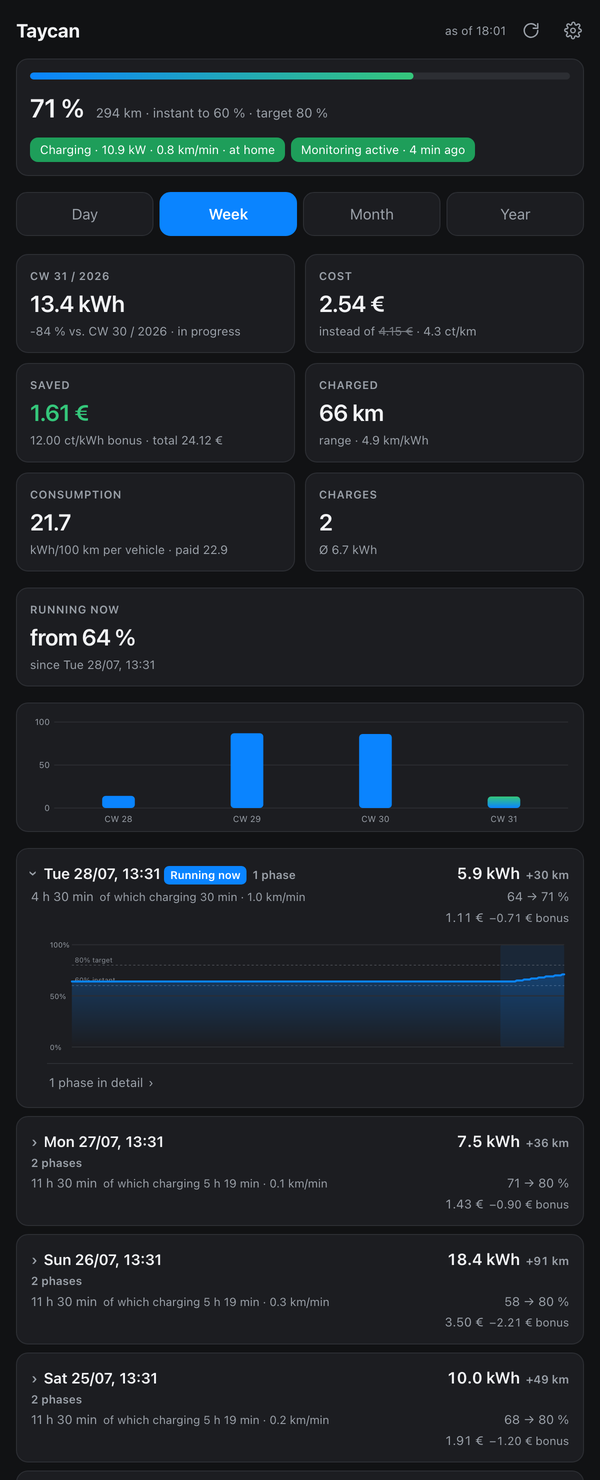
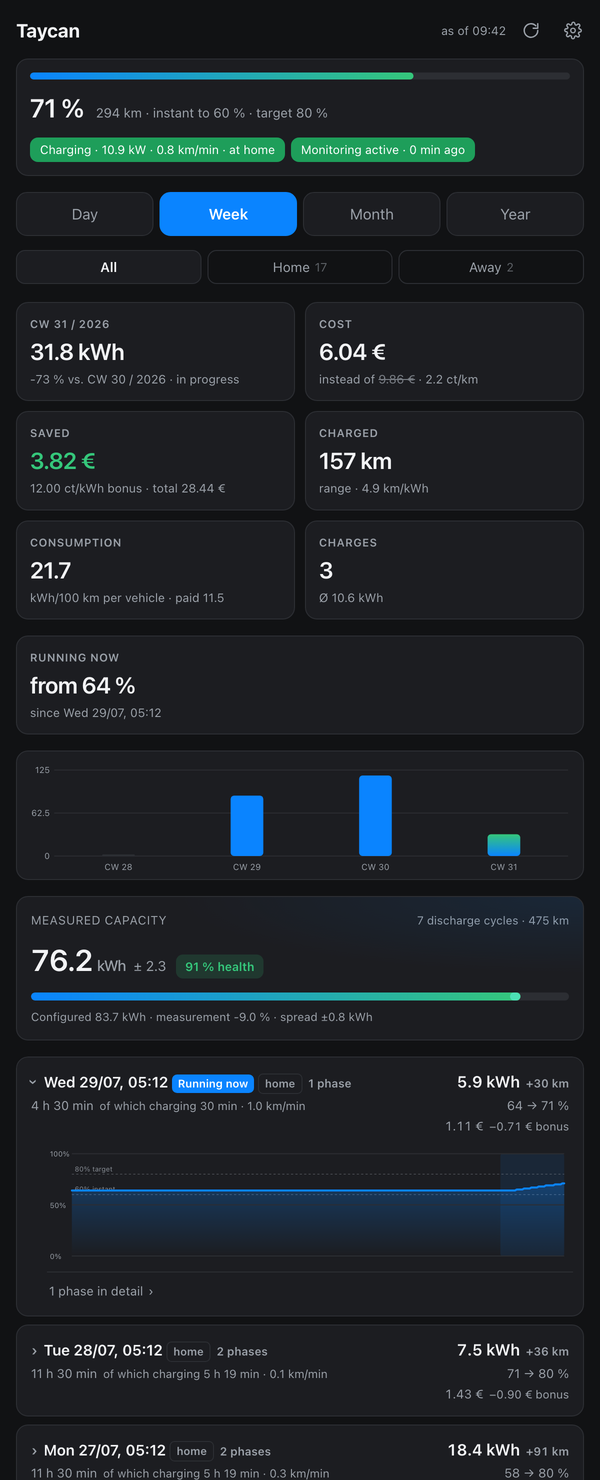
fix: capacity above the filters, real charging time instead of coverage
Two fixes from the private tree.

The measured-capacity tile sat below the period and location filters but
changes with neither — it always computes over every drive, because the battery
does not depend on where or when you charged. Read below the filters it looked
filtered. It is above them now.

The tile labelled "charging time" showed `spanMinutes` — the recorded
measurement span, i.e. how long data exists at all. That has nothing to do with
charging. It now sums the actual charging time of the charges in the period,
with their count.

That tile only appears when no price is configured, so in practice it shows up
under the "away" filter, where the home tariff deliberately does not apply.

Also: test ports moved from 8200–8500 to 18200+. The old range collided with
servers running alongside during development, and a test would hit its timeout
with nothing actually wrong.

diff --git a/src/dashboard.ts b/src/dashboard.ts
@@ -990,6 +990,43 @@ ${CHART_CSS}${BARS_CSS}
     }</span>
   </div>
 </div>
+<!-- Über den Filtern: Die gemessene Kapazität ändert sich weder mit dem
+     Zeitraum noch mit dem Ort. Darunter gelesen wirkte sie gefiltert. -->
+${
+  cap.capacityKwh !== undefined
+    ? `<div class="cap">
+        <div class="caphead">
+          <span>${esc(L.dashMeasuredCapacity)}</span>
+          <em>${cap.samples} ${esc(cap.samples === 1 ? L.capCycle : L.capCycles)} · ${cap.km} km</em>
+        </div>
+        <div class="capmain">
+          <b>${cap.capacityKwh.toFixed(1)}<i>kWh</i></b>
+          ${
+            cap.uncertaintyKwh !== undefined
+              ? `<i class="capunc">± ${cap.uncertaintyKwh.toFixed(1)}</i>`
+              : ''
+          }
+          ${soh !== undefined ? `<span class="soh">${soh.toFixed(0)} % ${esc(L.dashHealth)}</span>` : ''}
+        </div>
+        <div class="capbar">
+          <i style="width:${Math.max(0, Math.min(100, soh ?? 0))}%"></i>
+          ${
+            cap.spreadKwh !== undefined
+              ? `<u style="left:${Math.max(0, Math.min(96, (soh ?? 0) - 2))}%;width:${Math.min(
+                  20,
+                  (cap.spreadKwh / cfg.capacityKwh) * 100,
+                )}%"></u>`
+              : ''
+          }
+        </div>
+        <div class="capfoot">${esc(L.dashConfigured)} ${cfg.capacityKwh} kWh${
+          capDelta !== undefined
+            ? ` · ${esc(L.dashMeasurement)} ${capDelta > 0 ? '+' : ''}${capDelta.toFixed(1)} %`
+            : ''
+        }${cap.spreadKwh !== undefined ? ` · ${esc(L.dashSpread)} ±${(cap.spreadKwh / 2).toFixed(1)} kWh` : ''}</div>
+      </div>`
+    : ''
+}
 <nav class="tabs">${tabs}</nav>
 ${placeTabs}${
   place === 'away' && !awayPriced
@@ -1009,9 +1046,15 @@ ${placeTabs}${
         ? `${esc(L.dashInsteadOf)} <s>${current.costGross.toFixed(2)} €</s>`
         : `${(o.pricePerKwh * 100).toFixed(2)} ct/kWh`
     }${eff.centPerKm !== undefined ? ` · ${eff.centPerKm.toFixed(1)} ct/km` : ''}</span></div>`
-      : `<div class="card"><span>${esc(L.dashChargeTime)}</span><b>${
-          current ? Math.round(current.spanMinutes / 60) : 0
-        } h</b><span>${esc(L.dashRecorded)}</span></div>`
+      : // Ohne Preis steht hier die tatsächliche LADEZEIT der Ladungen im
+        // Zeitraum. Vorher zeigte diese Kachel `spanMinutes` — die erfasste
+        // Messspanne, also wie lange überhaupt Daten vorliegen. Unter der
+        // Überschrift „Ladezeit" war das schlicht falsch.
+        `<div class="card"><span>${esc(L.dashChargeTime)}</span><b>${esc(
+          fmtDur(inPeriod.reduce((a, x) => a + x.chargingMin, 0)),
+        )}</b><span>${inPeriod.length} ${esc(
+          inPeriod.length === 1 ? L.dashChargeOne : L.dashCharges.toLowerCase(),
+        )}</span></div>`
   }
   ${
     hasBonus
@@ -1054,41 +1097,6 @@ ${
     : ''
 }
 ${series.length ? `<div class="chart">${bars}</div>` : ''}
-${
-  cap.capacityKwh !== undefined
-    ? `<div class="cap">
-        <div class="caphead">
-          <span>${esc(L.dashMeasuredCapacity)}</span>
-          <em>${cap.samples} ${esc(cap.samples === 1 ? L.capCycle : L.capCycles)} · ${cap.km} km</em>
-        </div>
-        <div class="capmain">
-          <b>${cap.capacityKwh.toFixed(1)}<i>kWh</i></b>
-          ${
-            cap.uncertaintyKwh !== undefined
-              ? `<i class="capunc">± ${cap.uncertaintyKwh.toFixed(1)}</i>`
-              : ''
-          }
-          ${soh !== undefined ? `<span class="soh">${soh.toFixed(0)} % ${esc(L.dashHealth)}</span>` : ''}
-        </div>
-        <div class="capbar">
-          <i style="width:${Math.max(0, Math.min(100, soh ?? 0))}%"></i>
-          ${
-            cap.spreadKwh !== undefined
-              ? `<u style="left:${Math.max(0, Math.min(96, (soh ?? 0) - 2))}%;width:${Math.min(
-                  20,
-                  (cap.spreadKwh / cfg.capacityKwh) * 100,
-                )}%"></u>`
-              : ''
-          }
-        </div>
-        <div class="capfoot">${esc(L.dashConfigured)} ${cfg.capacityKwh} kWh${
-          capDelta !== undefined
-            ? ` · ${esc(L.dashMeasurement)} ${capDelta > 0 ? '+' : ''}${capDelta.toFixed(1)} %`
-            : ''
-        }${cap.spreadKwh !== undefined ? ` · ${esc(L.dashSpread)} ±${(cap.spreadKwh / 2).toFixed(1)} kWh` : ''}</div>
-      </div>`
-    : ''
-}
 ${
   recent.length
     ? `<div class="tablewrap"><table><thead><tr><th>${esc(L.dashStart)}</th><th>${esc(L.dashDuration)}</th><th>${esc(L.dashChargeState)}</th>
@@ -1335,7 +1343,9 @@ function renderSettings(o: DashboardOptions, host: string, measured?: number, cy
           1,
         )} kWh</button><small>${esc(L.setAdoptHint)}</small></div>`
       : measured !== undefined
-        ? `<div class="adopt"><small>${esc(L.setMeasured)}: ${measured.toFixed(1)} kWh (${cycles}) — ${esc(L.setAdoptFrom)} ${ADOPT_MIN_CYCLES}</small></div>`
+        ? `<div class="adopt"><small>${esc(L.setMeasured)}: ${measured.toFixed(1)} kWh — ${cycles} ${esc(
+            cycles === 1 ? L.capCycle : L.capCycles,
+          )}. ${esc(L.setAdoptFrom).replace('%n', String(ADOPT_MIN_CYCLES))}</small></div>`
         : ''
   }
   ${field('dayBoundaryHour', L.setDayBoundary, L.setDayBoundaryHint, '1')}

diff --git a/src/i18n.ts b/src/i18n.ts
@@ -135,6 +135,7 @@ export interface Labels {
   dashChargeTime: string;
   dashRecorded: string;
   dashCharges: string;
+  dashChargeOne: string;
   dashNone: string;
   dashAvgPerCharge: string;
   dashRunning: string;
@@ -306,6 +307,7 @@ export const LABELS_EN: Labels = {
   dashChargeTime: 'Plugged in',
   dashRecorded: 'recorded',
   dashCharges: 'Charges',
+  dashChargeOne: 'charge',
   dashNone: 'none',
   dashAvgPerCharge: 'avg per charge',
   dashRunning: 'Running now',
@@ -355,7 +357,7 @@ aggWeek: 'CW',
   setDayBoundaryHint: 'Hour at which a new day counts. 4 assigns an overnight charge to the evening it started.',
   setAdopt: 'Adopt measured value',
   setAdoptHint: 'Measured from your discharge cycles. Changes every kWh and cost figure retroactively.',
-  setAdoptFrom: 'offered from cycle',
+  setAdoptFrom: 'Offered for adoption from %n cycles on — below that the estimate still moves too much.',
   setMeasured: 'Measured',
   setFromDashboard: 'Set here',
   setFromPlugin: 'From the plugin settings',
@@ -477,6 +479,7 @@ export const LABELS_DE: Labels = {
   dashChargeTime: 'Ladezeit',
   dashRecorded: 'erfasst',
   dashCharges: 'Ladungen',
+  dashChargeOne: 'Ladung',
   dashNone: 'keine',
   dashAvgPerCharge: 'Ø je Ladung',
   dashRunning: 'Läuft gerade',
@@ -526,7 +529,7 @@ aggWeek: 'KW',
   setDayBoundaryHint: 'Stunde, ab der ein neuer Tag zählt. 4 schlägt eine Nachtladung dem Vorabend zu.',
   setAdopt: 'Messwert übernehmen',
   setAdoptHint: 'Aus deinen Ladezyklen gemessen. Ändert rückwirkend alle kWh- und Kostenzahlen.',
-  setAdoptFrom: 'zur Übernahme ab Zyklus',
+  setAdoptFrom: 'Zur Übernahme angeboten ab %n Zyklen — vorher schwankt die Schätzung zu stark.',
   setMeasured: 'Gemessen',
   setFromDashboard: 'Hier gesetzt',
   setFromPlugin: 'Aus den Plugin-Einstellungen',

diff --git a/test/dashboard.test.ts b/test/dashboard.test.ts
@@ -118,7 +118,7 @@ describe('manual refresh', () => {
 
   // Port 0 bedeutet in der Konfiguration „Dashboard aus" — für die Tests
   // braucht es deshalb echte, je Test verschiedene Ports.
-  let nextPort = 8200;
+  let nextPort = 18200;
 
   /** Startet das Dashboard und liefert Adresse + Stopper. */
   const serve = async (
@@ -282,7 +282,7 @@ describe('Zielmarke je Ladung', () => {
     fs.rmSync(dir, { recursive: true, force: true });
   });
 
-  let nextPort = 8300;
+  let nextPort = 18300;
 
   /** Rendert die Seite über den echten Server — prüft also auch die Verdrahtung. */
   const page = async (lines: object[], language: 'de' | 'en' = 'de'): Promise<string> => {
@@ -443,7 +443,7 @@ describe('Ortsfilter', () => {
 
 describe('Preis je Ladung eintragen', () => {
   let dir: string;
-  let nextPort = 8400;
+  let nextPort = 18400;
 
   beforeEach(() => {
     dir = fs.mkdtempSync(path.join(os.tmpdir(), 'pr-'));
@@ -557,7 +557,7 @@ describe('Preis je Ladung eintragen', () => {
 
 describe('Einstellungsseite', () => {
   let dir: string;
-  let nextPort = 8500;
+  let nextPort = 18500;
 
   beforeEach(() => {
     dir = fs.mkdtempSync(path.join(os.tmpdir(), 'ds-'));
